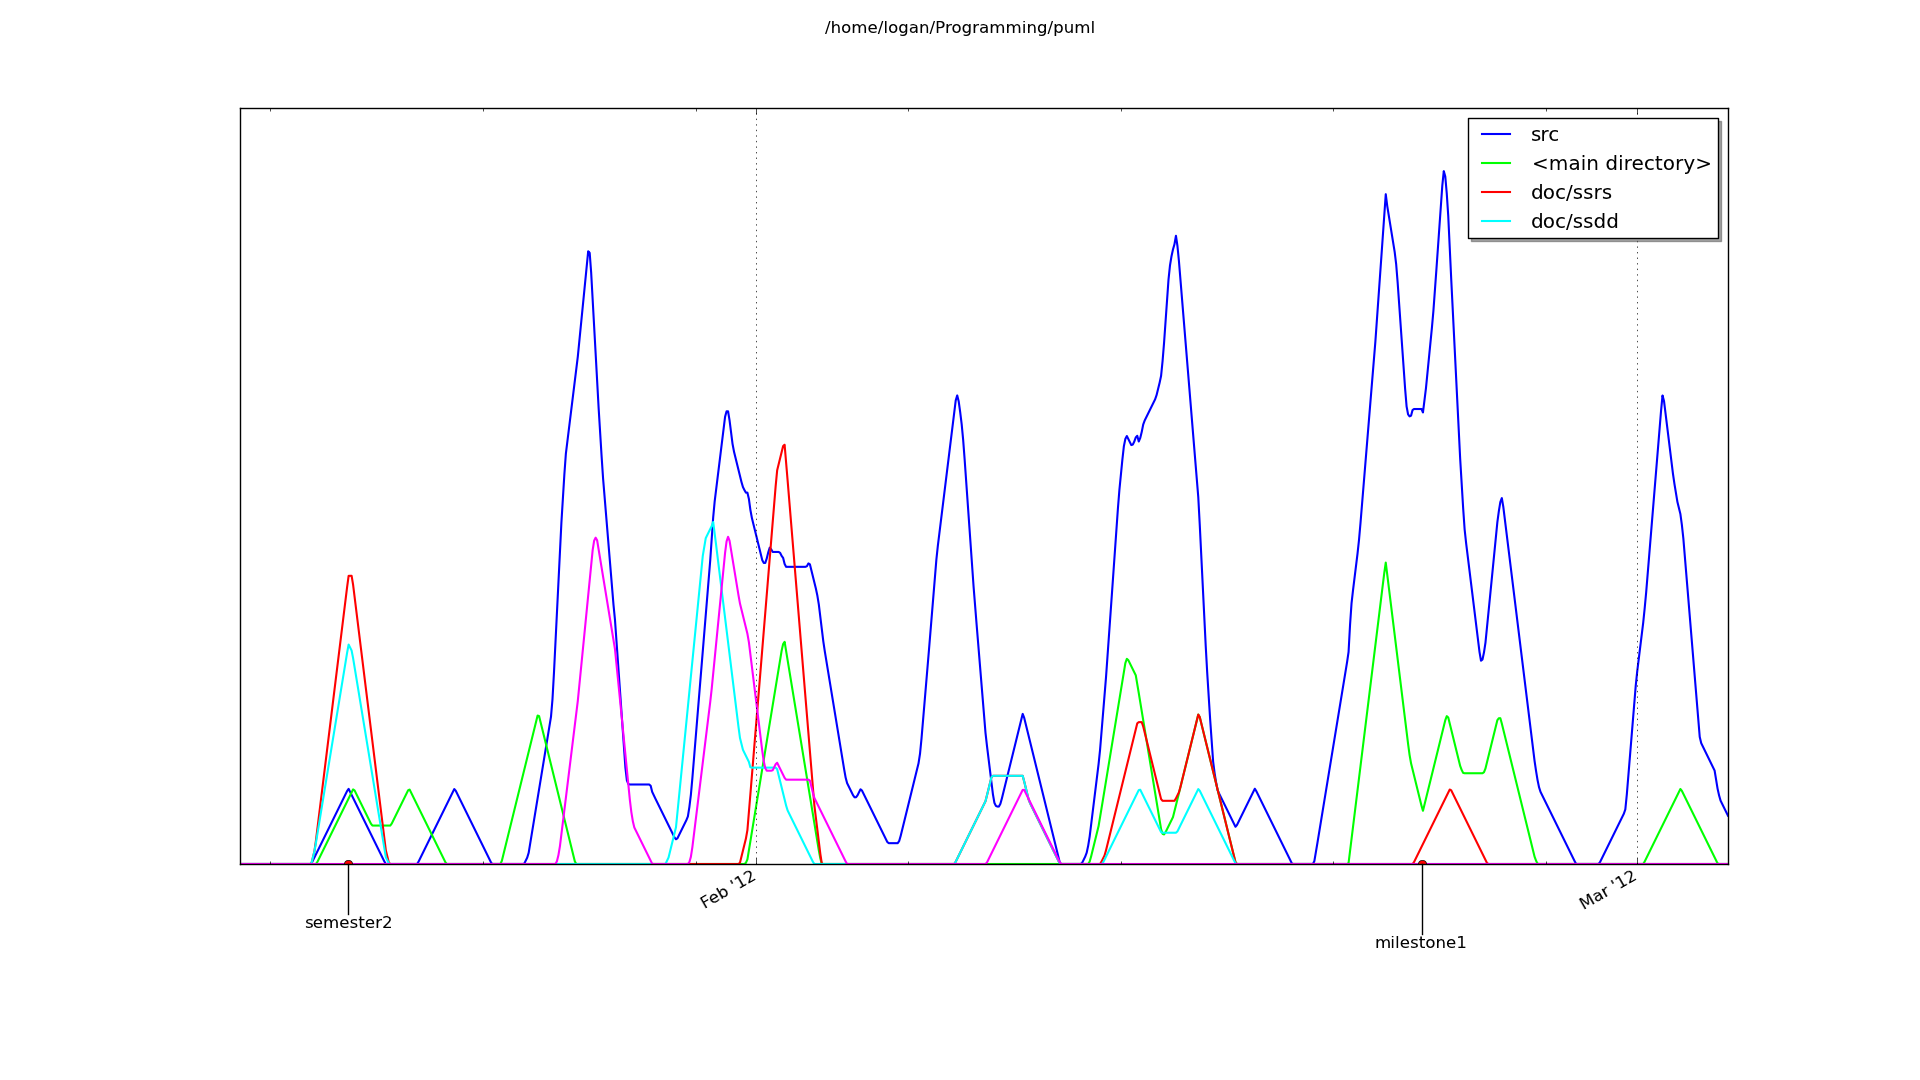
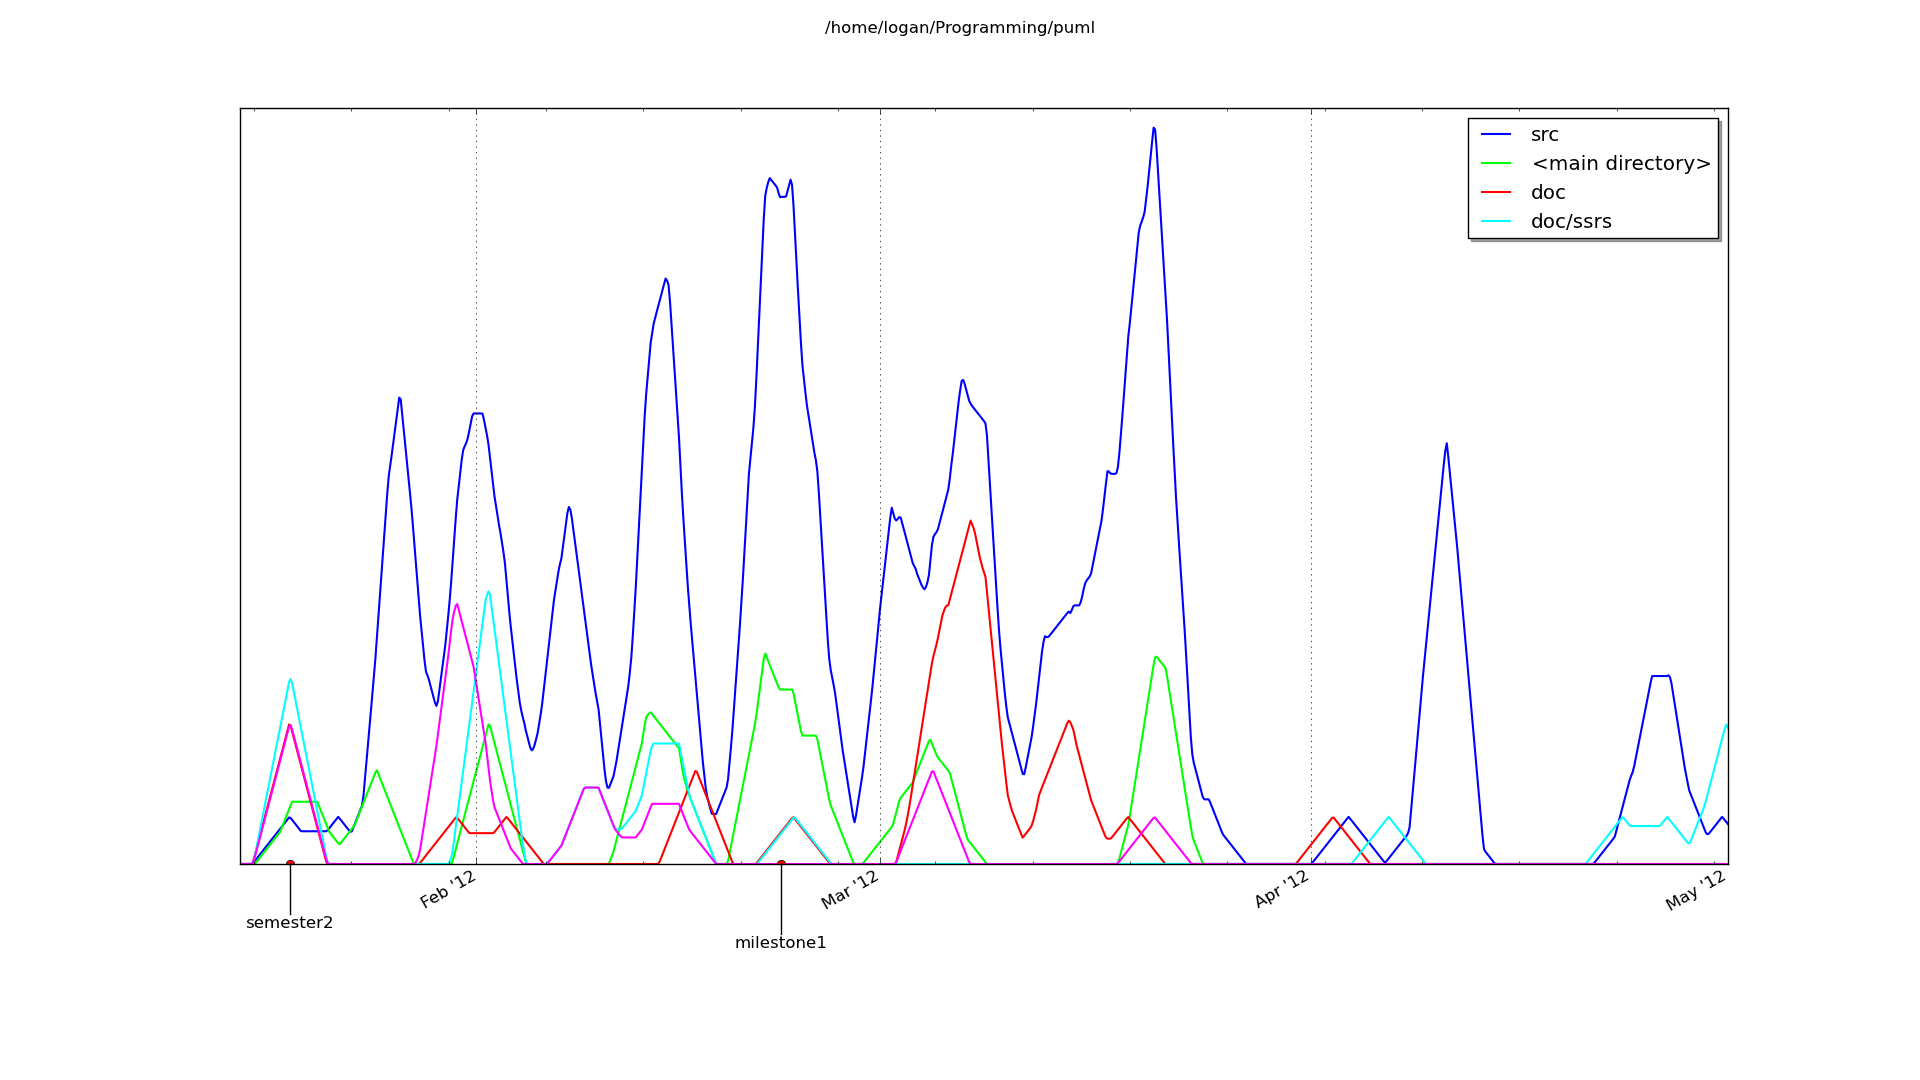
Updated activity graphs. I think.

diff --git a/doc/misc/activity_graphs/activity_graphs.rb b/doc/misc/activity_graphs/activity_graphs.rb
@@ -1,4 +1,4 @@
-def create_all datemin="2012-01-15", datemax="2012-03-04"
+def create_all datemin="2012-01-15", datemax="2012-05-01"
     %x/hg activity --showtags --datemin=#{datemin} --datemax=#{datemax} --width=1920 --height=1080 --filename=overall.png/
     %x/hg activity --showtags --split=authors --maxcaptions=9 --datemin=#{datemin} --datemax=#{datemax} --width=1920 --height=1080 --filename=authors.png/
     %x/hg activity --showtags --split=files --maxcaptions=9 --datemin=#{datemin} --datemax=#{datemax} --width=1920 --height=1080 --filename=files.png/
